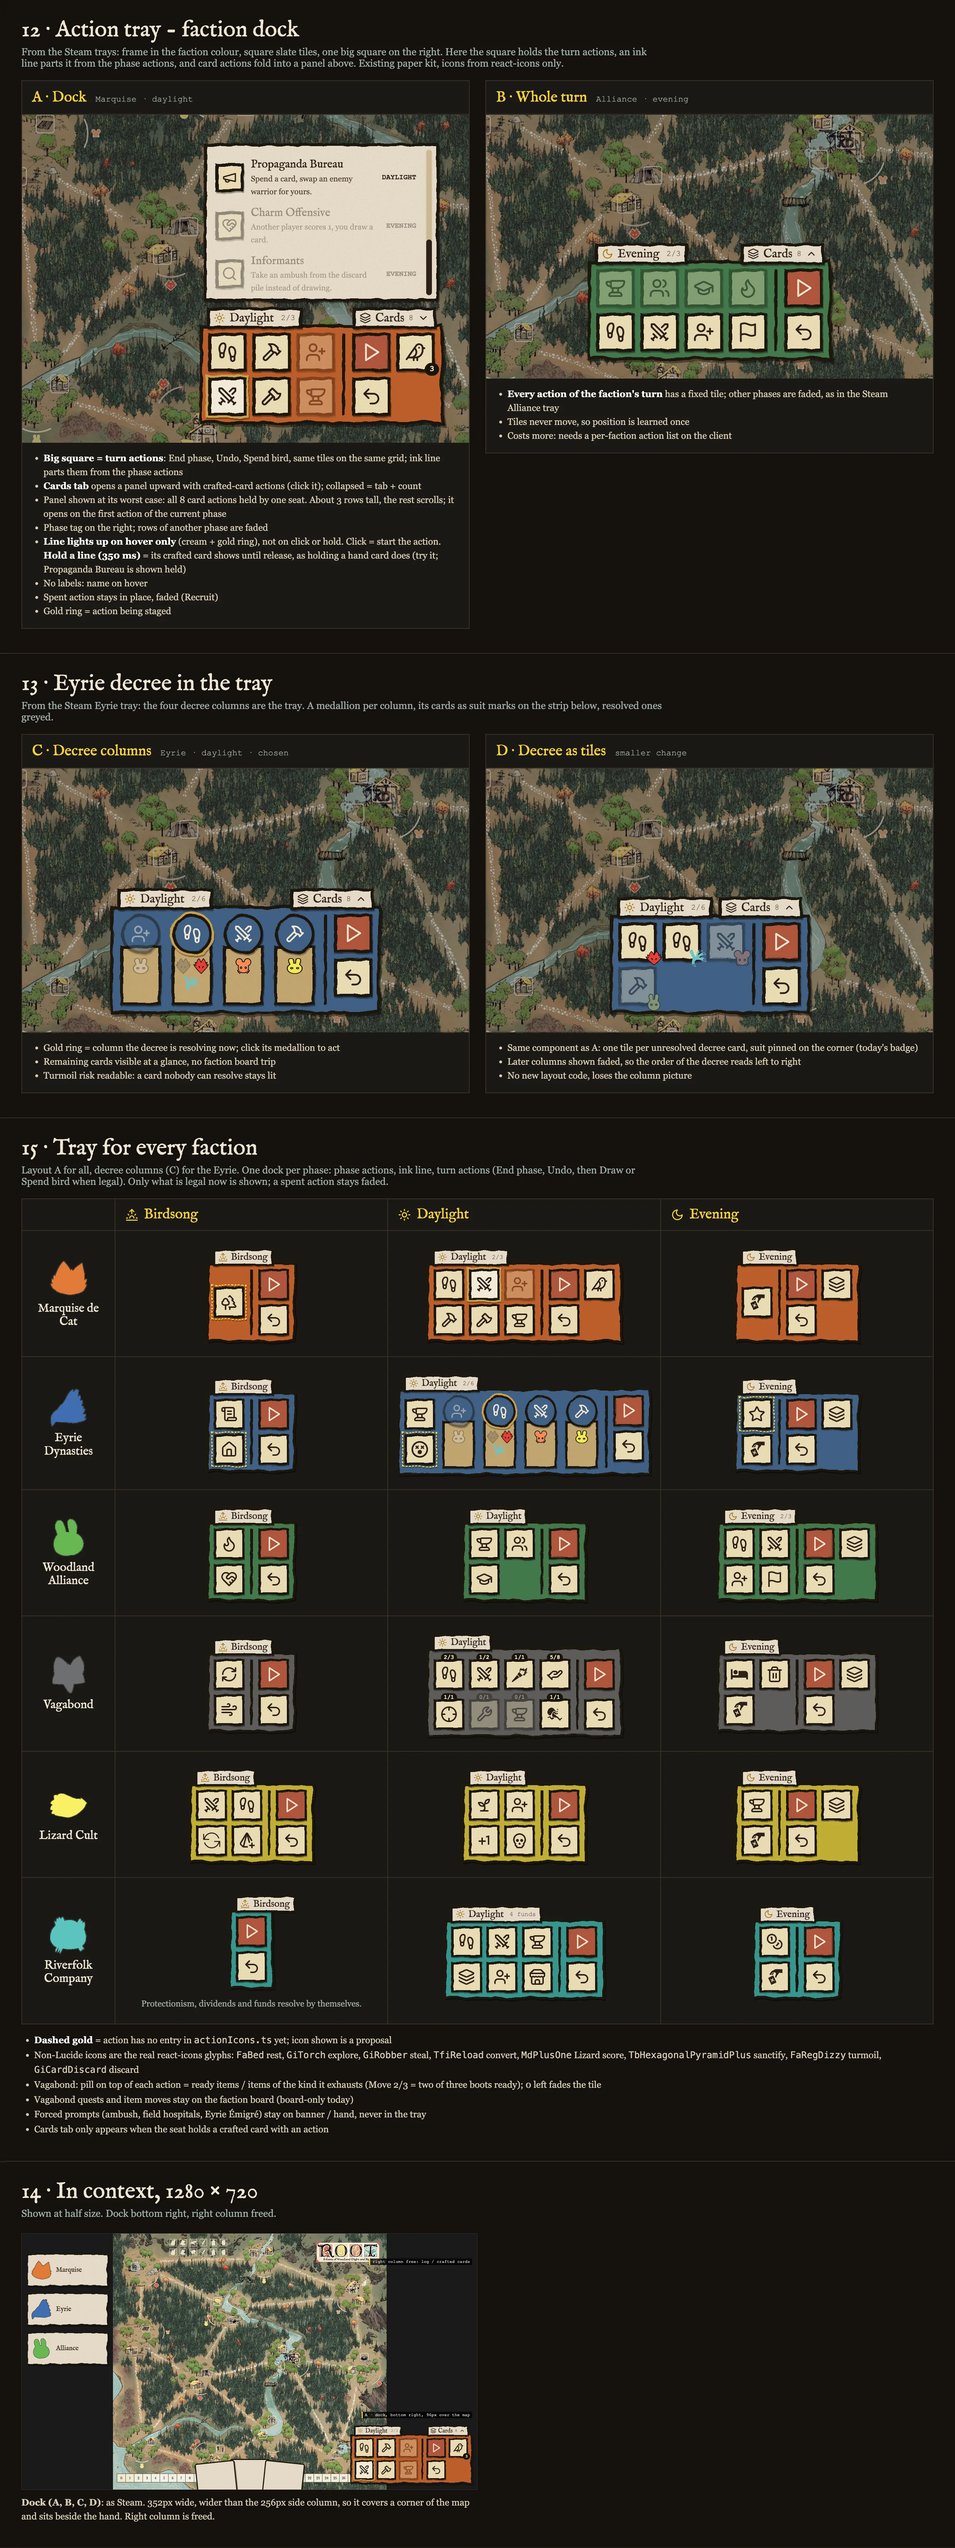
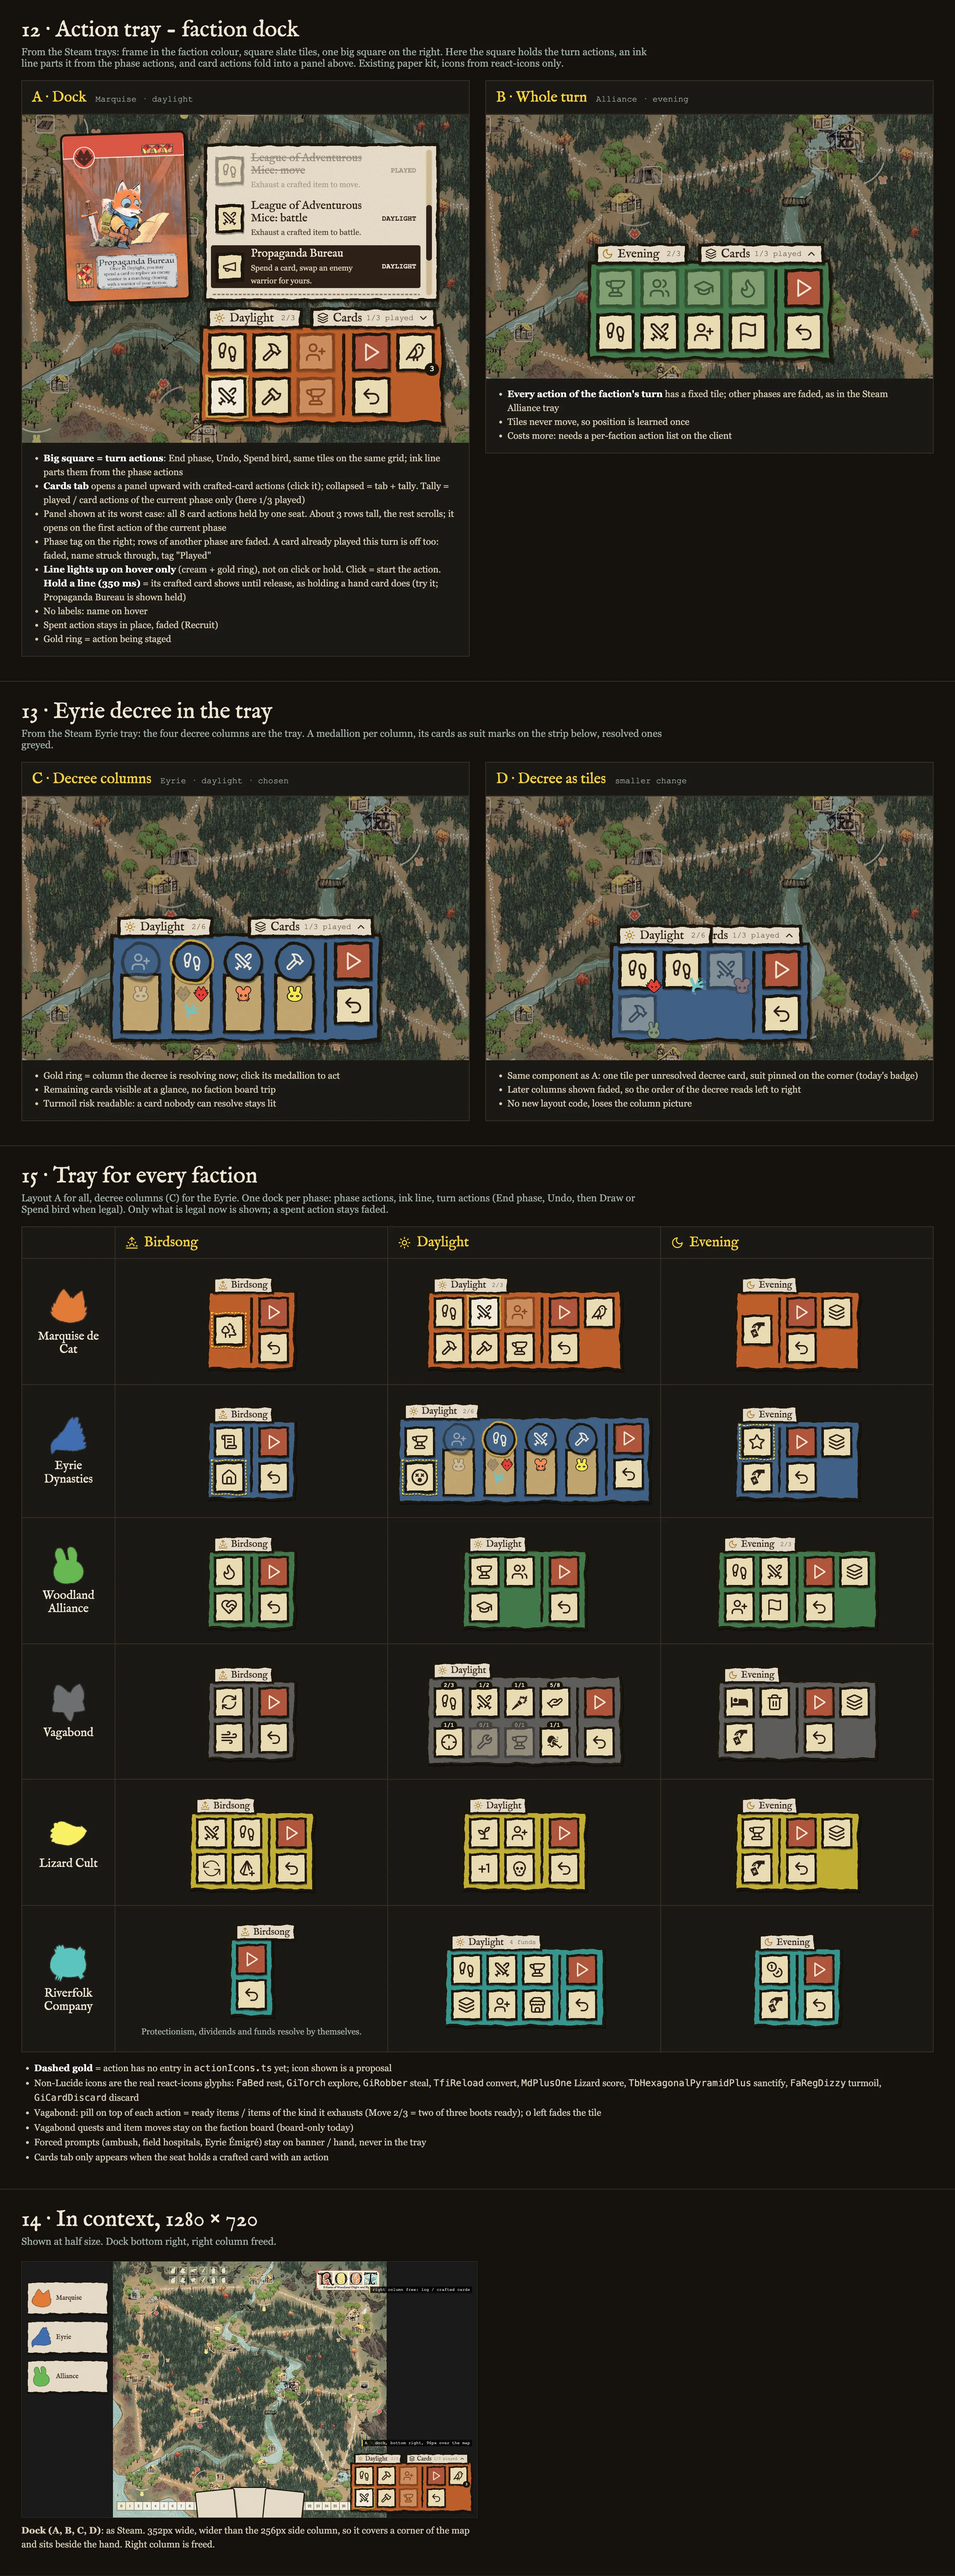
docs(ui): action tray mockup tallies played card actions of the current phase
Cards tab reads played / card actions of the current phase; a card
already played this turn is disabled, struck through and tagged Played.

Changed region(s): [[0.0, 0.0312, 0.991, 0.9983], [0.4026, 0.468, 0.6813, 0.8111], [0.7123, 0.468, 0.9291, 0.8111]]

diff --git a/resources/mockups/action-tray/action-dock.html b/resources/mockups/action-tray/action-dock.html
@@ -100,6 +100,8 @@ body { margin: 0; background: #14110e; color: var(--parchment); font-family: Geo
 /* a line of another phase: hover stays pale, dashed, not clickable (hold still shows the card) */
 .card-row.later:hover, .card-row.later.hovered { background: #d9c9a6; color: var(--ink); opacity: .6; outline: 2px dashed var(--ink-soft, #4a3a2c); outline-offset: -2px; cursor: not-allowed; }
 .card-row.later:hover small, .card-row.later.hovered small { color: #4a3a2c; }
+/* already played this turn: off like another phase's line, name struck through */
+.card-row.played b { text-decoration: line-through; }
 /* crafted card shown while a line is held */
 .card-preview { display: none; position: absolute; right: calc(100% + 16px); bottom: calc(100% + 32px); width: 176px; border: 3px solid var(--ink-deep); border-radius: 8px; box-shadow: 3px 4px 0 rgba(0,0,0,.45); transform: rotate(-2deg); z-index: 5; }
 .card-preview.shown, .card-preview.demo { display: block; }
@@ -183,9 +185,9 @@ body { margin: 0; background: #14110e; color: var(--parchment); font-family: Geo
       </div>
       <ul>
         <li><b>Big square = turn actions</b>: End phase, Undo, Spend bird, same tiles on the same grid; ink line parts them from the phase actions</li>
-        <li><b>Cards tab</b> opens a panel upward with crafted-card actions (click it); collapsed = tab + count</li>
+        <li><b>Cards tab</b> opens a panel upward with crafted-card actions (click it); collapsed = tab + tally. Tally = played / card actions of the current phase only (here 1/3 played)</li>
         <li>Panel shown at its worst case: all 8 card actions held by one seat. About 3 rows tall, the rest scrolls; it opens on the first action of the current phase</li>
-        <li>Phase tag on the right; rows of another phase are faded</li>
+        <li>Phase tag on the right; rows of another phase are faded. A card already played this turn is off too: faded, name struck through, tag "Played"</li>
         <li><b>Line lights up on hover only</b> (cream + gold ring), not on click or hold. Click = start the action. <b>Hold a line (350 ms)</b> = its crafted card shows until release, as holding a hand card does (try it; Propaganda Bureau is shown held)</li>
         <li>No labels: name on hover</li>
         <li>Spent action stays in place, faded (Recruit)</li>
@@ -435,7 +437,7 @@ const CARD_ACTIONS = [
   { art: 'saboteurs', name: 'Saboteurs', phase: 'Birdsong', rule: 'Discard it to remove an enemy crafted card.' },
   { art: 'swapmeet', name: 'Swap Meet', phase: 'Birdsong', rule: 'Take a card from a player, give one back.' },
   { art: 'falseorders', name: 'False Orders', phase: 'Birdsong', rule: 'Discard it to move half of an enemy\'s warriors.' },
-  { art: 'leagueofadventrousmice', name: 'League of Adventurous Mice: move', phase: 'Daylight', rule: 'Exhaust a crafted item to move.' },
+  { art: 'leagueofadventrousmice', name: 'League of Adventurous Mice: move', phase: 'Daylight', rule: 'Exhaust a crafted item to move.', played: true },
   { art: 'leagueofadventrousmice', name: 'League of Adventurous Mice: battle', phase: 'Daylight', rule: 'Exhaust a crafted item to battle.' },
   { art: 'propagandabureau', name: 'Propaganda Bureau', phase: 'Daylight', rule: 'Spend a card, swap an enemy warrior for yours.' },
   { art: 'charmoffensive', name: 'Charm Offensive', phase: 'Evening', rule: 'Another player scores 1, you draw a card.' },
@@ -453,8 +455,14 @@ const CARD_ACTION_ICONS = {
   'Informants': 'search',
 }
 // A line: click starts the action, hold shows the crafted card (as holding a hand card does).
-const cardRows = CARD_ACTIONS.map((card) => `<div class="card-row ${card.phase === CURRENT_PHASE ? '' : 'later'}" data-art="${card.art}"><div class="paper fine tile">${iconMarkup(CARD_ACTION_ICONS[card.name])}</div><div><b>${card.name}</b><small>${card.rule}</small></div><em>${card.phase}</em></div>`).join('')
-const cardsMarkup = `<div class="paper fine tab cards"><i data-lucide="layers"></i>Cards<small>${CARD_ACTIONS.length}</small><i data-lucide="chevron-up" class="chevron"></i></div><div class="paper fine card-panel"><div class="card-list">${cardRows}</div></div><img class="card-preview" alt="" />`
+// Off (.later) when it belongs to another phase or was already played this turn.
+const isCurrentPhase = (card) => card.phase === CURRENT_PHASE
+const isPlayable = (card) => isCurrentPhase(card) && card.played !== true
+const currentPhaseCards = CARD_ACTIONS.filter(isCurrentPhase)
+const playedTally = `${currentPhaseCards.filter((card) => card.played === true).length}/${currentPhaseCards.length} played`
+const rowClasses = (card) => ['card-row', isCurrentPhase(card) ? 'now' : '', isPlayable(card) ? '' : 'later', card.played === true ? 'played' : ''].join(' ')
+const cardRows = CARD_ACTIONS.map((card) => `<div class="${rowClasses(card)}" data-art="${card.art}"><div class="paper fine tile">${iconMarkup(CARD_ACTION_ICONS[card.name])}</div><div><b>${card.name}</b><small>${card.rule}</small></div><em>${card.played === true ? 'Played' : card.phase}</em></div>`).join('')
+const cardsMarkup = `<div class="paper fine tab cards"><i data-lucide="layers"></i>Cards<small>${playedTally}</small><i data-lucide="chevron-up" class="chevron"></i></div><div class="paper fine card-panel"><div class="card-list">${cardRows}</div></div><img class="card-preview" alt="" />`
 const turnMarkup = (hasBird) => `<i class="line"></i><div class="paper fine slot">
   <div class="paper fine tile end" data-name="End phase" data-left="to evening"><i data-lucide="play"></i></div>
   <div class="paper fine tile" data-name="Undo" data-left="last action"><i data-lucide="undo-2"></i></div>
@@ -537,7 +545,7 @@ document.getElementById('matrix').innerHTML =
 // Opening the panel scrolls to the first action of the current phase.
 const scrollToCurrentPhase = (tray) => {
   const list = tray.querySelector('.card-list')
-  const firstLive = list.querySelector('.card-row:not(.later)')
+  const firstLive = list.querySelector('.card-row.now')
   if (firstLive !== null) list.scrollTop = firstLive.getBoundingClientRect().top - list.getBoundingClientRect().top + list.scrollTop
 }
 for (const cardsTab of document.querySelectorAll('.tab.cards')) {
@@ -582,7 +590,7 @@ for (const cardsTab of document.querySelectorAll('.tab.cards')) {
   }
   // Static shot: the open tray shows one line as if hovered and held.
   if (tray.classList.contains('open')) {
-    const demoRow = tray.querySelector('.card-row:not(.later) ~ .card-row:not(.later) ~ .card-row:not(.later)')
+    const demoRow = [...tray.querySelectorAll('.card-row:not(.later)')].at(-1)
     demoRow.classList.add('hovered')
     // Next line belongs to another phase: pinned too, to compare both hover looks.
     demoRow.nextElementSibling?.classList.add('hovered')
